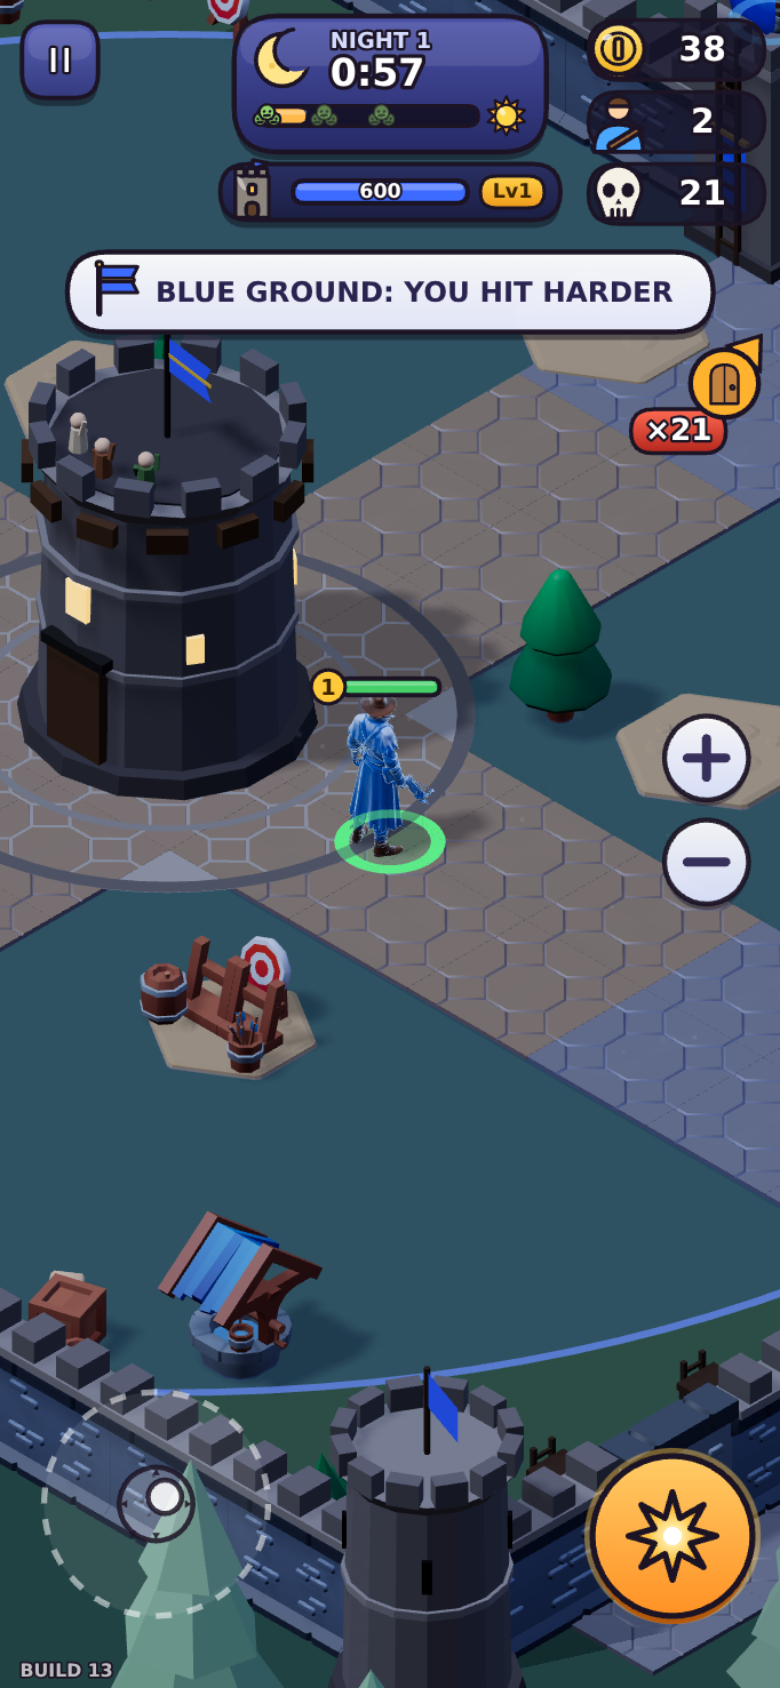
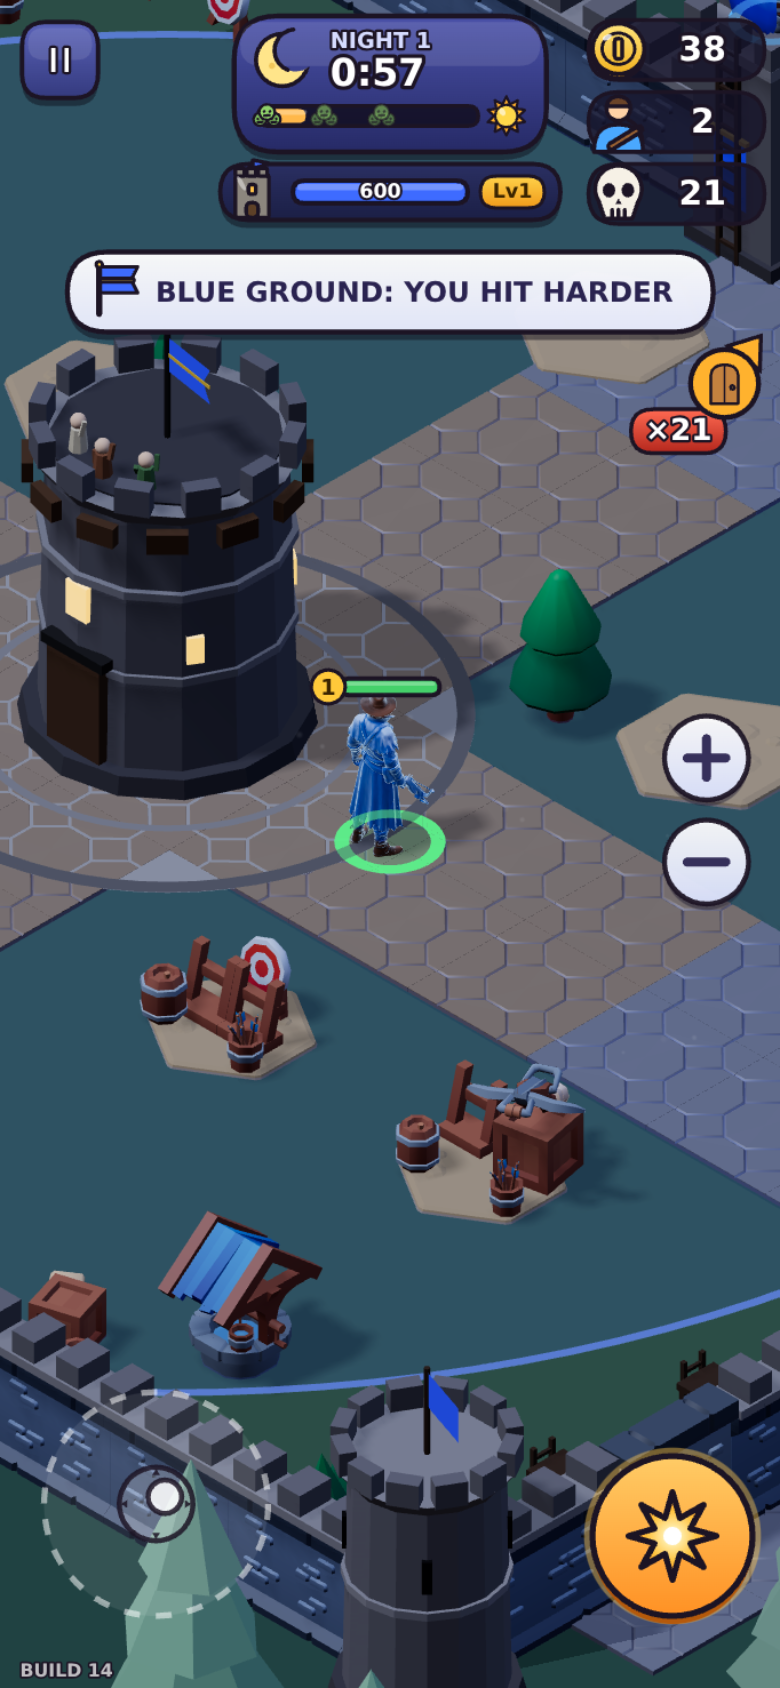
BUILD 14 docs + evidence: roadmap 'Pass BUILD 14' (QA, balance, open items), acceptance 14 updated + 18 added; qa-evidence/survival-build14 (guard bows Lv1-3 day/night, rack, card, stations, map, balance); evidence-images 'levels'; FTUE shots re-stamped by envqa

diff --git a/docs/REBUILD-ROADMAP.md b/docs/REBUILD-ROADMAP.md
@@ -1,7 +1,95 @@
 # Status Rebuild 3D & Survival Milestone 1
 
-**Pembaruan:** 2026-10-18 (Asia/Makassar)
-**Status keseluruhan: MASIH TERBUKA — bukan klaim siap rilis.** Inti rebuild dunia 3D dan loop Survival Milestone 1 sudah terimplementasi. Pada 2026-10-12 arah UI/UX dan threat model dikoreksi mengikuti feedback user; pada 2026-10-15 dilakukan pass analisis gap & bug (lihat bagian "Gap & bug pass 2026-10-15"), lalu pass progres Hunter + level bangunan (lihat "Progres Hunter & level bangunan"), lalu pass menara crossbow (lihat "Menara crossbow"), lalu pass guard yang bisa jatuh (lihat "Guard bisa jatuh"; termasuk perbaikan bug gelombang yang muncul di dalam rumah), dan seluruh gate otomatis dijalankan ulang. Setelah itu user memutuskan **game landscape only** dan meminta brainstorming + design system plan sebelum koding lagi (lihat "Arah desain & orientasi" dan `docs/DESIGN-SYSTEM-PLAN.md`; belum ada perubahan kode game untuk arah ini). Revisi 1 desain (konsep api) ditolak user. Di revisi 2 user memilih konsep **K1 "Benteng Terakhir"**, pola build **jalan ke lingkaran + BUILD**, dan nada **dark stylized**, lalu menyetujui semua rekomendasi aturan dan meminta "pastikan dunianya 3D". K1 kini **terimplementasi sebagai vertical slice** (lihat "K1 Benteng Terakhir — implementasi"); acceptance manusia/perangkat untuk K1 belum ada. Atas feedback user berikutnya, Survival kini dimainkan di **dunia benteng (bailey)** baru, bukan di dalam ruangan mansion (lihat "Dunia benteng untuk Survival"). Setelah itu kedua bookend cerita K1 dibuat: **intro sinematik** di malam pertama dan **adegan bala bantuan tiba** di fajar ke-3 (lihat "Bookend K1"); pemahaman pemain atas keduanya belum diuji. Lalu dibuat **riset UX & replay** dari review pemain (Play Store, Steam, Reddit, dan platform review lain) plus playtest bot "sebagai gamer" (lihat "Riset UX & replay" dan `docs/UX-REPLAY-RESEARCH.md`). Riset itu lalu diperdalam atas permintaan user agar tidak ada coding: v2 menambah review bintang 5, persona, peta perjalanan, dan protokol playtest; v3 menambah pemain Indonesia, analisis loop 3 lapis, dan uji HP kelas bawah. Setelah itu, atas feedback user, dibuat pass perbaikan: benteng diperkecil dan aktor diperbesar, pasukan memakai GLB (KayKit Knight, CC0), efek tembakan/damage diperkuat, kerja bangunan dibuat terlihat, dan UI dirapikan (NIGHT dipisah dari BUILD, panel fajar/akhir menghitung kontribusi). Dari rekomendasi riset, yang terbangun baru R1 sebagian, R18a, dan R19 (lihat "Perbaikan dari feedback user"). Lalu pesan "next" berikutnya dikerjakan sebagai P0 riset **"Momen akhir run"**: bintang 1–3, rekor + NEW BEST!, panel kalah "Ns TO DAWN" + satu tip dari penyebab nyata, dan MVP bangunan (R1–R4, R19; lihat "Momen akhir run"). R5 dan R6 belum. Lalu user melapor "tidak ada perubahan" (2026-10-17): dibuat **pass visual besar** — build yang benar sampai ke layar (service worker hanya di host rilis, preview tanpa cache, stempel BUILD 8), bailey setengah ukuran dengan aktor ×1,6 dan kamera lebih dekat, seluruh horde monster GLB (vertex animation texture), knight dimuat saat boot dengan helm biru berjambul, efek tembakan/damage lebih besar, ballista yang membunuh dan menandai kill-nya, koin mine di HUD, dan penanda gerbang dengan jumlah musuh (lihat "Pass visual besar"). Lalu user meminta lima perbaikan lagi (2026-10-17, "ada beberapa masih perlu di fix"): kamera dijauhkan sedikit dan bisa digeser, plot bangunan ditata rapi, bangunan memakai aset gratis yang diunduh (bukan prototipe), kartu diperkecil, dan trailer pembuka dipertahankan. Kelimanya terimplementasi di **BUILD 9** (lihat "Pass perbaikan BUILD 9"). Lalu user meminta gambar karakter manusia yang cerah dengan senjata terpisah (folder `ASSET_CHARACTER`, gambar konsep AI atas permintaan user) dan aturan gerbang yang benar. Di **BUILD 10** gerbang tertutup menahan tembakan, gerbang hanya terbuka untuk kapten, dan untuk melawan, kapten keluar ke mulut gerbang atau ke luar benteng (lihat "Pass BUILD 10"). Lalu user melapor kapten berjalan sendiri keluar benteng dan bailey terlihat terlalu padat. Di **BUILD 11** kapten tidak lagi digerakkan apa pun selain stick, gerbang hanya terbuka untuk arah stick, setiap jenis bangunan punya warna sendiri, plot terkunci dan tiang hantu disembunyikan, dan props dikurangi (lihat "Pass BUILD 11"). Lalu user melapor ukuran world dan tata letak bangunan masih sama, dan meminta riset visual dan UI/UX game sejenis tanpa coding. Riset itu ada di `docs/VISUAL-LAYOUT-RESEARCH.md` (lihat "Riset visual & tata letak"). User lalu memilih **Opsi B**, meminta peta Rise of Kingdoms dicek dulu, dan meminta kamera yang bisa diperbesar, diperkecil, dan digeser. Ketiganya dikerjakan di **BUILD 12**: bailey ×1,6 dengan distrik per fungsi dan plaza Keep, plus kamera dinamis (lihat "Pass BUILD 12"). Lalu user menulis "lanjut": 7 senjata `ASSET_CHARACTER` yang tersisa dibuat (kini 18/18), dan empat usulan "murah tapi terlihat jelas" dari riset §7 dikerjakan di **BUILD 13**: kapten terang (V8), label hanya saat dekat (V4), angka damage kecil yang digabung (V9), dan gerbang malam ini terlihat di siang hari (V10) (lihat "Pass BUILD 13"). Acceptance visual/manual di perangkat, playtest manusia, dan packaging Play masih terbuka. Hasil tiap skrip hanya berlaku untuk cakupan yang benar-benar diuji.
+**Pembaruan:** 2026-10-18 (Asia/Makassar), BUILD 14
+**Status keseluruhan: MASIH TERBUKA — bukan klaim siap rilis.** Inti rebuild dunia 3D dan loop Survival Milestone 1 sudah terimplementasi. Pada 2026-10-12 arah UI/UX dan threat model dikoreksi mengikuti feedback user; pada 2026-10-15 dilakukan pass analisis gap & bug (lihat bagian "Gap & bug pass 2026-10-15"), lalu pass progres Hunter + level bangunan (lihat "Progres Hunter & level bangunan"), lalu pass menara crossbow (lihat "Menara crossbow"), lalu pass guard yang bisa jatuh (lihat "Guard bisa jatuh"; termasuk perbaikan bug gelombang yang muncul di dalam rumah), dan seluruh gate otomatis dijalankan ulang. Setelah itu user memutuskan **game landscape only** dan meminta brainstorming + design system plan sebelum koding lagi (lihat "Arah desain & orientasi" dan `docs/DESIGN-SYSTEM-PLAN.md`; belum ada perubahan kode game untuk arah ini). Revisi 1 desain (konsep api) ditolak user. Di revisi 2 user memilih konsep **K1 "Benteng Terakhir"**, pola build **jalan ke lingkaran + BUILD**, dan nada **dark stylized**, lalu menyetujui semua rekomendasi aturan dan meminta "pastikan dunianya 3D". K1 kini **terimplementasi sebagai vertical slice** (lihat "K1 Benteng Terakhir — implementasi"); acceptance manusia/perangkat untuk K1 belum ada. Atas feedback user berikutnya, Survival kini dimainkan di **dunia benteng (bailey)** baru, bukan di dalam ruangan mansion (lihat "Dunia benteng untuk Survival"). Setelah itu kedua bookend cerita K1 dibuat: **intro sinematik** di malam pertama dan **adegan bala bantuan tiba** di fajar ke-3 (lihat "Bookend K1"); pemahaman pemain atas keduanya belum diuji. Lalu dibuat **riset UX & replay** dari review pemain (Play Store, Steam, Reddit, dan platform review lain) plus playtest bot "sebagai gamer" (lihat "Riset UX & replay" dan `docs/UX-REPLAY-RESEARCH.md`). Riset itu lalu diperdalam atas permintaan user agar tidak ada coding: v2 menambah review bintang 5, persona, peta perjalanan, dan protokol playtest; v3 menambah pemain Indonesia, analisis loop 3 lapis, dan uji HP kelas bawah. Setelah itu, atas feedback user, dibuat pass perbaikan: benteng diperkecil dan aktor diperbesar, pasukan memakai GLB (KayKit Knight, CC0), efek tembakan/damage diperkuat, kerja bangunan dibuat terlihat, dan UI dirapikan (NIGHT dipisah dari BUILD, panel fajar/akhir menghitung kontribusi). Dari rekomendasi riset, yang terbangun baru R1 sebagian, R18a, dan R19 (lihat "Perbaikan dari feedback user"). Lalu pesan "next" berikutnya dikerjakan sebagai P0 riset **"Momen akhir run"**: bintang 1–3, rekor + NEW BEST!, panel kalah "Ns TO DAWN" + satu tip dari penyebab nyata, dan MVP bangunan (R1–R4, R19; lihat "Momen akhir run"). R5 dan R6 belum. Lalu user melapor "tidak ada perubahan" (2026-10-17): dibuat **pass visual besar** — build yang benar sampai ke layar (service worker hanya di host rilis, preview tanpa cache, stempel BUILD 8), bailey setengah ukuran dengan aktor ×1,6 dan kamera lebih dekat, seluruh horde monster GLB (vertex animation texture), knight dimuat saat boot dengan helm biru berjambul, efek tembakan/damage lebih besar, ballista yang membunuh dan menandai kill-nya, koin mine di HUD, dan penanda gerbang dengan jumlah musuh (lihat "Pass visual besar"). Lalu user meminta lima perbaikan lagi (2026-10-17, "ada beberapa masih perlu di fix"): kamera dijauhkan sedikit dan bisa digeser, plot bangunan ditata rapi, bangunan memakai aset gratis yang diunduh (bukan prototipe), kartu diperkecil, dan trailer pembuka dipertahankan. Kelimanya terimplementasi di **BUILD 9** (lihat "Pass perbaikan BUILD 9"). Lalu user meminta gambar karakter manusia yang cerah dengan senjata terpisah (folder `ASSET_CHARACTER`, gambar konsep AI atas permintaan user) dan aturan gerbang yang benar. Di **BUILD 10** gerbang tertutup menahan tembakan, gerbang hanya terbuka untuk kapten, dan untuk melawan, kapten keluar ke mulut gerbang atau ke luar benteng (lihat "Pass BUILD 10"). Lalu user melapor kapten berjalan sendiri keluar benteng dan bailey terlihat terlalu padat. Di **BUILD 11** kapten tidak lagi digerakkan apa pun selain stick, gerbang hanya terbuka untuk arah stick, setiap jenis bangunan punya warna sendiri, plot terkunci dan tiang hantu disembunyikan, dan props dikurangi (lihat "Pass BUILD 11"). Lalu user melapor ukuran world dan tata letak bangunan masih sama, dan meminta riset visual dan UI/UX game sejenis tanpa coding. Riset itu ada di `docs/VISUAL-LAYOUT-RESEARCH.md` (lihat "Riset visual & tata letak"). User lalu memilih **Opsi B**, meminta peta Rise of Kingdoms dicek dulu, dan meminta kamera yang bisa diperbesar, diperkecil, dan digeser. Ketiganya dikerjakan di **BUILD 12**: bailey ×1,6 dengan distrik per fungsi dan plaza Keep, plus kamera dinamis (lihat "Pass BUILD 12"). Lalu user menulis "lanjut": 7 senjata `ASSET_CHARACTER` yang tersisa dibuat (kini 18/18), dan empat usulan "murah tapi terlihat jelas" dari riset §7 dikerjakan di **BUILD 13**: kapten terang (V8), label hanya saat dekat (V4), angka damage kecil yang digabung (V9), dan gerbang malam ini terlihat di siang hari (V10) (lihat "Pass BUILD 13"). Lalu user menulis "next": di **BUILD 14** senjata pasukan bisa di-upgrade. Ada rak senjata baru di samping armory dengan 3 level crossbow guard, yang terlihat di tangan setiap guard dan di warna bautnya. Pass ini juga memperbaiki bug lama: crossbow guard tidak pernah terpasang di tangan (lihat "Pass BUILD 14"). Acceptance visual/manual di perangkat, playtest manusia, dan packaging Play masih terbuka. Hasil tiap skrip hanya berlaku untuk cakupan yang benar-benar diuji.
+
+## Pass BUILD 14 — senjata pasukan bisa di-upgrade (2026-10-18)
+
+**Pesan user:** "next". Saya baca sebagai: kerjakan item terbuka berikutnya. Yang saya pilih adalah permintaan eksplisit dari pesan ketiga (2026-10-17) yang masih terbuka sejak BUILD 10: *"senjata pasukan bisa di-upgrade"* (acceptance #14), ditambah tiga catatan kecil BUILD 13. Alternatif yang belum dikerjakan: V2, V5, V1, V3, V6, dan V7 dari riset visual (butuh pass aset atau tata letak).
+
+Stempel di layar kini **BUILD 14**, service worker `duskhold-v14`.
+
+### Yang baru di game
+
+**1. Rak senjata (arms rack).** Ini titik siang baru di distrik tenggara, satu baris dengan armory dan 270 px di sebelah timurnya. Posisinya adalah cerminan plot luar barak barat laut lewat Keep, jadi distrik tenggara kini punya dua stasiun seperti distrik lain punya plot berpasangan. Isinya: pad tanah, rak senjata, tong, ember baut KayKit, dan sebuah peti dengan **crossbow level saat ini yang berputar pelan di atasnya**. Peti diletakkan di timur laut tengah pad supaya kapten yang berdiri di rak tidak menutupinya.
+
+**2. Kartu GUARD BOWS** (dock satu baris, seperti kartu lain):
+- ikon crossbow, nama, dan pip level;
+- damage per baut sekarang → berikutnya;
+- "guard ×N", yaitu berapa guard yang memegang busur itu;
+- tag `FASTER` (menuju Lv2) atau `PIERCE` (menuju Lv3);
+- tombol UPGRADE dengan biaya.
+
+Selama dikerjakan, tombolnya berganti menjadi `UPGRADING n%` dan busur di peti berputar cepat.
+
+**3. Tiga level** (satu level untuk semua guard; bonus ×1,5 di wilayah panji tetap berlaku):
+
+| Level | Biaya | Waktu | Damage per baut | Jeda tembak | Tembus | Yang terlihat |
+|---|---|---|---|---|---|---|
+| Lv1 | — | — | 10 | 1,6 dtk | — | crossbow satu tangan KayKit apa adanya (kayu + besi); baut biru muda |
+| Lv2 | 12 emas + 10 kayu | 5 dtk | 14 | 1,4 dtk | — | crossbow yang sama, popor **biru kerajaan** dan besi terang, ×1,3; baut putih-biru yang lebih panjang |
+| Lv3 | 18 emas + 14 kayu | 6 dtk | 18 | 1,25 dtk | 1 musuh | crossbow dua tangan KayKit sebagai **arbalest biru tua dengan fitting emas**, dipegang dua tangan (klip `2H_Ranged_*`), perisai disimpan; **baut emas** tebal |
+
+Lv1 sama persis dengan guard sebelum BUILD 14.
+
+**4. Saat upgrade selesai**, semua guard langsung memegang busur baru, siang maupun malam. Setiap guard mendapat kilatan dan cincin berwarna level, plus pop "Lv2"/"Lv3" dengan ikon crossbow di atas kepalanya. Banner "GUARD BOWS Lv2" muncul dan busur di peti ikut berganti.
+
+**5. Dua stasiun di distrik tenggara.** Kartu armory kini bernama **CAPTAIN** (sebelumnya HUNTER), supaya dua stasiunnya jelas: CAPTAIN untuk kapten, GUARD BOWS untuk pasukan. Saat kapten dekat, keduanya menampilkan pill level (wajah kapten / ikon guard + Lv). Panah emas muncul saat upgrade-nya terjangkau, sama seperti di atas bangunan.
+
+Warna busur Lv2/Lv3 dibuat dari **salinan** atlas `rogue_texture.png` di canvas saat runtime. Hanya swatch kayu dan besi yang dipakai crossbow yang diwarnai ulang, mengikuti gambar konsep `ASSET_CHARACTER/weapons/guard-crossbow-lv1..3`. Byte glTF/PNG KayKit tidak diubah (`assets/troops/kaykit/CREDITS.txt`).
+
+### Bug lama yang ketemu: guard tidak pernah memegang crossbow
+
+GLTFLoader menyanitasi nama node untuk binding animasi, sehingga `handslot.r` di GLB menjadi `handslotr` di scene. Kode lama mencari `handslot.r`, jadi crossbow **tidak pernah terpasang** dan guard menembak dengan tangan kosong sejak knight GLB dipakai. Diagnostics lama tidak memeriksa hal ini. Sekarang slot dicari dengan nama yang sudah disanitasi, dan diagnostics `guardBows` mencatat level busur di tangan setiap guard yang terlihat (dicek `survival-plotsqa`).
+
+### Tiga catatan BUILD 13 yang diperbaiki
+
+1. Penunjuk merah di tepi layar kini bergeser sepanjang tepinya, menjauh dari cincin stick (kiri bawah).
+2. Penunjuk itu juga menjauh dari chip CAPTAIN (atas tengah).
+3. Angka damage tidak lagi naik ke bawah kotak HUD atas (pause, pill NIGHT/DAY, counter, dan bar Keep). Langkah naik yang akan masuk ke HUD tidak dipakai, dan angka yang sedang naik berhenti tepat di bawah HUD.
+
+Selain itu, ikon crossbow digambar tegak (busur di atas, popor ke bawah). Dalam posisi miring, ikon itu terbaca seperti beliung tambang.
+
+### Balance
+
+Enam bot lama hasilnya **sama persis dengan BUILD 13**: 30 baris run dan SUMMARY identik selain waktu proses. Ini karena Lv1 = GUARD lama dan jumlah angka acak per tembakan tidak berubah.
+
+Bot baru `arms-builder` (barak → GUARD BOWS sampai Lv3 → Keep, tanpa tambang) **menang 5/5** dengan bintang 3, 1, 3, 1, 1. MVP-nya GUARDS dengan 54–62 kill. Jadi jalur ini bisa dipakai, tetapi tidak lebih kuat dari jalur kapten (hunter-builder 5/5 ★★★) atau jalur seimbang (builder 5/5 ★★★). Biaya dan kekuatan belum diuji pemain manusia.
+
+### QA yang dijalankan (BUILD 14)
+
+| Perintah | Hasil |
+|---|---|
+| `node tools/harness.mjs` | **70/70 cek PASS** (+4 cek BUILD 14: rak sebagai titik siang sendiri di distrik tenggara; biaya Lv2 12+10 / Lv3 18+14, satu job builder di rak, pop di tiap guard, Lv3 MAX; baut guard per level 10/1,6 dtk → 14/1,4 dtk → 18/1,25 dtk + tembus; level tersimpan, run baru mulai Lv1, save lama dimuat Lv1). Catatan: angka "67/67" di laporan BUILD 13 ikut menghitung satu baris log ekonomi yang memuat kata PASS. Jumlah cek sebenarnya waktu itu 66. |
+| `node tools/survival-plotsqa.mjs` | **24/24 PASS** (+3 cek B14: kedua stasiun menampilkan level + panah, satu tombol `UPGRADE ARMS LV2` di dock, busur Lv1 di peti dan di tangan setiap guard; setelah dibeli muncul `UPGRADING ARMS`, lalu semua guard memegang busur Lv2 dengan pop + kilatan, dan Lv3 dipegang dua tangan; di malam hari guard Lv3 di menara menembak baut emas 18 yang tembus. Cek aset kini menghitung 17 pad = 15 plot + armory + rak). Run pertama 22/24: (1) cek malam B14 terlalu ketat, karena baut yang sudah menembus satu tubuh sisa tembusnya 0 — cek diperbaiki; (2) cek kamera "pinch dua jari di sisi stick" gagal sekali. Cek itu memakai jendela 320 ms waktu nyata, sedangkan frame headless bisa lebih lambat. Di reproduksi terpisah dan di run ulang cek itu PASS. |
+| `node tools/survival-map.mjs` | **226/226** (+6 cek rak: bebas plot, tembok, dan props; cerminan plot luar barak NW; satu baris dengan armory dengan jarak rumput 134 px; distrik SE) |
+| `node tools/survival-devqa.mjs` | **25/25 PASS** |
+| `node tools/survival-intro.mjs` | **PASS** |
+| `node tools/envqa.mjs --mode=3d-smoke` | **PASS** (41). Bukti FTUE `qa-evidence/survival-ftue-*` ikut diperbarui dengan stempel BUILD 14 |
+| `node tools/survival-fxshots.mjs` | **14/14 PASS** |
+| `node tools/layoutqa.mjs`, `glbtest.mjs`, `swtest.mjs` | **PASS** (`glbtest` +1 cek: glTF arbalest + klip 2H_Ranged Knight; `swtest` dengan `duskhold-v14`) |
+| `node tools/survivalshots.mjs --landscape` | 26 shot, 0 page error |
+| `node tools/survival-look.mjs` | 0 error (`day0`, `day`, `build`, `gate`, `fight`, `overview`, `closeup`) |
+| `node tools/bundlecheck.mjs` | hanya 1 FAIL lama (fingerprint signing release, menunggu kunci upload) |
+| `node tools/survival-balance.mjs --seeds=5 --duration=72` | enam bot lama **sama persis dengan BUILD 13**; `arms-builder` baru 5/5 menang (bintang 3, 1, 3, 1, 1; MVP GUARDS) |
+
+**Bukti** (`qa-evidence/survival-build14/`):
+
+- `guards-bows-lv1-lv2-lv3.png`: dua guard di Keep, frame yang sama, busur Lv1 / Lv2 / Lv3 (siang, zoom 1,6×);
+- `night-bolts-lv1-lv2-lv3.png`: guard di menara gerbang selatan menembak di malam hari, warna baut per level, angka 10 / 14 / 18;
+- `rack-lv1-lv2-lv3.png`: busur di peti rak senjata per level;
+- `arms-card.png`: kapten di rak, kartu GUARD BOWS di dock (dari `survival-plotsqa`);
+- `guards-lv3.png`, `night-gold-bolts.png`: dari `survival-plotsqa`;
+- `day-stations.png`: kedua stasiun distrik tenggara dengan pill level + panah emas;
+- `look-day.png`, `look-day0.png`, `look-fight.png`: shot standar `survival-look` (guard di Keep kini memegang crossbow);
+- `map.png`: denah bailey dengan titik ARMS;
+- `balance-5seed-72s.txt`.
+
+**Belum / terbuka:**
+- Penilaian manusia di HP: apakah busur guard terlihat di zoom normal. Di zoom 1,0 busur kecil; Lv3 emas yang paling terbaca, Lv2 baru jelas saat di-zoom. Juga belum dinilai: apakah rak senjata ditemukan tanpa penjelasan, dan apakah biaya serta rasa kekuatannya pas.
+- Dalam pose Idle KayKit, busur dipegang rendah di samping kaki. Busur baru terlihat jelas saat guard membidik dan menembak di malam hari.
+- Senjata kapten tetap menyatu dengan mesh Tripo-nya. Level kapten terlihat dari baut tembus (Lv2) dan kipas 3 baut (Lv3), bukan dari model busurnya.
+- Konversi gambar `ASSET_CHARACTER` → GLB belum dikerjakan. Busur di game adalah mesh KayKit yang diwarnai ulang, bukan model dari gambar itu.
 
 ## Pass BUILD 13 — kapten terang, label dekat, angka damage, gerbang malam ini (2026-10-18)
 
@@ -119,8 +207,8 @@ Setelah angka damage dibuat bertumpuk (perubahan terakhir, hanya kode gambar), `
 
 **Belum / terbuka:**
 - Penilaian manusia di HP atas keempat perubahan: apakah kapten terbaca tanpa terlihat seperti hantu atau hologram, apakah nama yang hanya muncul saat dekat masih cukup untuk mengenali bangunan, apakah angka yang lebih kecil masih terasa kuat, dan apakah pemain bisa menyebut gerbang malam ini sebelum menekan NIGHT (uji riset §8).
-- Di layar landscape 844×390, penunjuk merah gerbang di tepi kiri bawah bisa berdekatan dengan cincin stick; di zoom overview penunjuk atas bisa menempel pada chip CAPTAIN.
-- Angka damage yang naik langkah bisa masuk ke bawah pill NIGHT saat gerbang ada di tepi atas layar.
+- Di layar landscape 844×390, penunjuk merah gerbang di tepi kiri bawah bisa berdekatan dengan cincin stick; di zoom overview penunjuk atas bisa menempel pada chip CAPTAIN. *(Diperbaiki di BUILD 14.)*
+- Angka damage yang naik langkah bisa masuk ke bawah pill NIGHT saat gerbang ada di tepi atas layar. *(Diperbaiki di BUILD 14.)*
 - Kapten masih model Tripo yang sama. Shader hanya mewarnai ulang teksturnya; detail seperti sabuk atau sarung tangan tidak bisa diberi warna sendiri.
 
 ## Pass BUILD 12 — tata letak Opsi B + kamera dinamis (2026-10-18)
@@ -1213,10 +1301,11 @@ Ini screenshot checkpoint, bukan rekaman, dan bukan review di perangkat fisik.
 11. **Pass visual besar 2026-10-17 ("tidak ada perubahan"):** terimplementasi dan lolos gate otomatis (lihat "Pass visual besar"). Belum: konfirmasi dari user bahwa layar menampilkan "BUILD 8" dan kelima poin kini terlihat, penilaian rasa (ukuran benteng vs aktor, horde GLB, efek, kerja bangunan, penanda gerbang), dan frame time horde instanced + knight di HP kelas bawah.
 12. **Pass perbaikan BUILD 9 2026-10-17 (kamera, plot rapi, aset bangunan, kartu, trailer):** terimplementasi dan lolos gate otomatis (lihat "Pass perbaikan BUILD 9"). Belum: konfirmasi dari user bahwa layar menampilkan "BUILD 9"; penilaian di HP nyata atas jarak kamera dan rasa geser/pinch, kerapian denah, kecocokan aset KayKit dengan gaya benteng, ukuran dock, dan apakah intro tiap run mengganggu; frame time model kit di HP kelas bawah.
 13. **Pass BUILD 10 2026-10-17 (aturan gerbang):** gerbang tertutup menahan tembakan, gerbang terbuka hanya untuk kapten, musuh mengejar di luar, istirahat di balik tembok, guard di menara gerbang, dan tembakan melengkung lewat tembok. Semuanya terimplementasi dan lolos gate otomatis (lihat "Pass BUILD 10"). Belum: konfirmasi user bahwa layar menampilkan "BUILD 10"; rasa keluar benteng dan ritme gerbang/istirahat di HP nyata; keterbacaan guard di puncak menara.
-14. **ASSET_CHARACTER 2026-10-17/18:** 18 dari 18 gambar konsep sudah dibuat (6 karakter + 12 senjata; 7 senjata terakhir di commit `e374747`). Kapten gelap di game kini dicerahkan lewat shader dengan palet opsi 1 (BUILD 13, V8). Modelnya tidak diganti. Masih terbuka: konversi gambar → GLB, socket senjata di tangan, upgrade senjata pasukan di game, dan penilaian manusia atas kecocokan gambar dengan gaya game.
+14. **ASSET_CHARACTER 2026-10-17/18:** 18 dari 18 gambar konsep sudah dibuat (6 karakter + 12 senjata; 7 senjata terakhir di commit `e374747`). Kapten gelap di game kini dicerahkan lewat shader dengan palet opsi 1 (BUILD 13, V8). Modelnya tidak diganti. Sejak BUILD 14 socket senjata di tangan guard berfungsi dan upgrade senjata pasukan ada di game (rak senjata, GUARD BOWS Lv1–3, mengikuti gambar `guard-crossbow-lv1..3` dengan mesh KayKit yang diwarnai ulang). Masih terbuka: konversi gambar → GLB dan penilaian manusia atas kecocokan gambar dengan gaya game.
 15. **Pass BUILD 11 2026-10-17 (bug kapten + bailey padat):** dorongan tanpa input dihapus, gerbang hanya terbuka untuk arah stick, warna per bangunan, plot terkunci dan tiang hantu disembunyikan, label nama di pad, props dikurangi. Semuanya lolos gate otomatis (lihat "Pass BUILD 11"). Belum: konfirmasi user bahwa bug tidak muncul lagi di perangkatnya dan layar menampilkan "BUILD 11"; penilaian manusia atas kepadatan dan keterbacaan bangunan.
 16. **Pass BUILD 12 2026-10-18 (Opsi B + kamera dinamis):** bailey ×1,6 dengan distrik per fungsi, plaza Keep, wilayah panji berupa radius, dekor distrik, dan kamera zoom 0,42–1,6× (pinch di mana saja, tombol +/−, roda, keyboard, geser + lemparan). Semuanya lolos gate otomatis (lihat "Pass BUILD 12"). Belum: konfirmasi user bahwa layar menampilkan "BUILD 12"; penilaian manusia atas kelapangan, keterbacaan distrik, jarak jalan, dan rasa kamera di HP nyata; frame time zoom terjauh di HP kelas bawah; konfirmasi keputusan §9 yang diambil sendiri.
 17. **Pass BUILD 13 2026-10-18 (V8, V4, V9, V10):** kapten terang, label hanya saat dekat, angka damage kecil yang digabung, dan gerbang malam ini terlihat di siang hari. Semuanya lolos gate otomatis (lihat "Pass BUILD 13"). Belum: konfirmasi user bahwa layar menampilkan "BUILD 13"; penilaian manusia apakah kapten kini terbaca tanpa terlihat seperti hantu atau hologram, apakah label dekat cukup untuk mengenali bangunan, apakah angka kecil masih terasa kuat, dan apakah pemain bisa menyebut gerbang malam ini sebelum menekan NIGHT (uji riset §8).
+18. **Pass BUILD 14 2026-10-18 (senjata pasukan bisa di-upgrade):** rak senjata, kartu GUARD BOWS, tiga level busur guard yang terlihat di tangan setiap guard dan di warna baut, perbaikan socket tangan, serta tiga catatan BUILD 13. Semuanya lolos gate otomatis (lihat "Pass BUILD 14"). Belum: konfirmasi user bahwa layar menampilkan "BUILD 14"; penilaian manusia apakah busur terbaca di zoom normal, apakah rak ditemukan tanpa penjelasan, dan apakah biaya/kekuatan terasa pas.
 
 ## Aturan laporan
 
